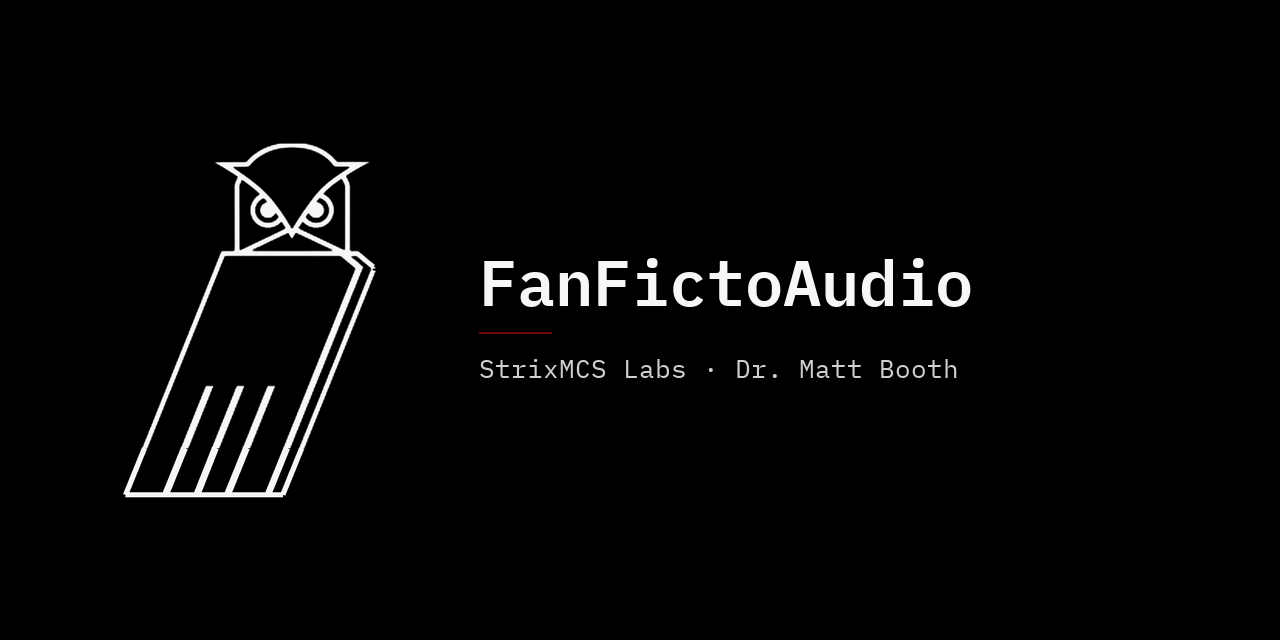
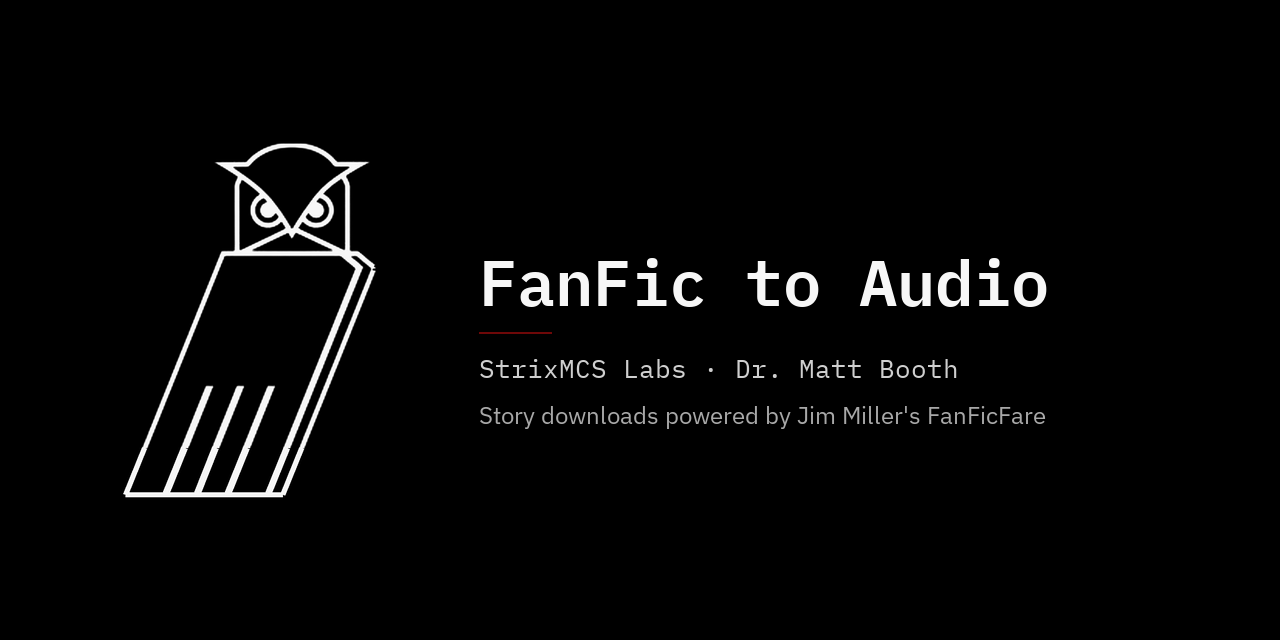
Show the project name on the social preview
Use the project's display name instead of the repository name, so all
StrixMCS Labs cards read consistently, and update docs/IMAGES.md.

Changed region(s): [[0.5312, 0.4062, 0.8438, 0.5], [0.375, 0.625, 0.8125, 0.6875]]

diff --git a/docs/IMAGES.md b/docs/IMAGES.md
@@ -6,7 +6,7 @@ Every image used in this repository's documentation, with its source, caption an
 
 | Path | Used in | What it shows | Alt text / caption | Captured | Status |
 |---|---|---|---|---|---|
-| `.github/social-preview.png` | Repository social preview (set in GitHub settings) | Owl head, repository name and StrixMCS Labs byline on black, 1280×640 | "FanFictoAudio — StrixMCS Labs" / Repository card shown when the repository is linked | 2026-10-26 | current |
+| `.github/social-preview.png` | Repository social preview (set in GitHub settings) | Owl head, the project name "FanFic to Audio", the StrixMCS Labs byline, and the credit "Story downloads powered by Jim Miller's FanFicFare" on black, 1280×640 | "FanFic to Audio — StrixMCS Labs, story downloads powered by Jim Miller's FanFicFare" / Repository card shown when the repository is linked | 2026-10-26 | current |
 | Mermaid diagram (inline) | `README.md`, "What it does" | Pipeline from story URLs, direct EPUB links and existing EPUBs through the queue, optional series EPUB, narration and FFmpeg to MP3 or M4B output | Rendered from source / End-to-end processing flow | 2026-10-12 (last edit) | current — each stage matched to source modules on 2026-10-26 |
 | CI badge (`ci.yml/badge.svg`) | `README.md` | Live status of the Tests workflow | "Tests" / Generated by GitHub Actions | live | current |
 | License badge (shields.io) | `README.md` | Apache 2.0 license | "License: Apache 2.0" / Generated by shields.io | live | current |
